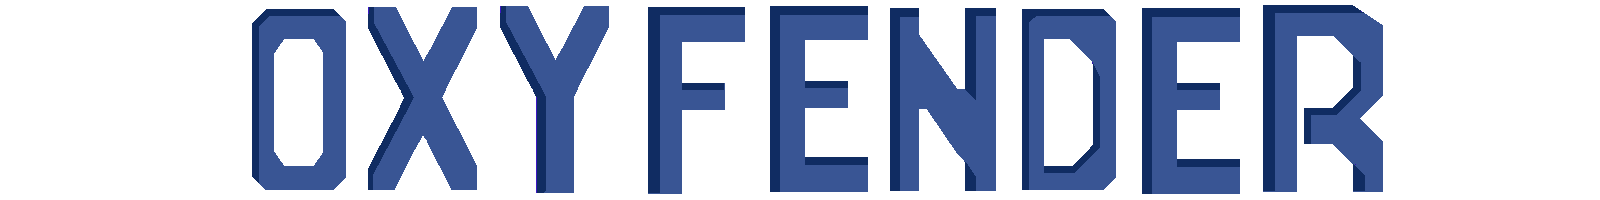
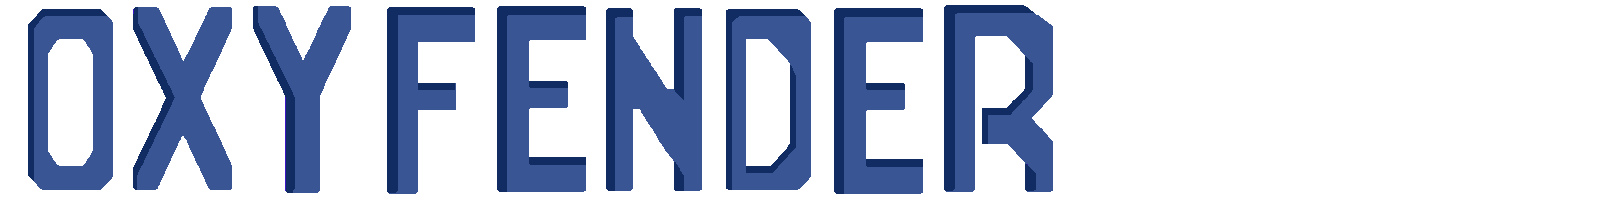
Mejorar menu

diff --git a/menu/menu_game.py b/menu/menu_game.py
@@ -1,0 +1,237 @@
+import pygame
+from utils.configuraciones import *
+import sys
+
+# Importamos las librerias de los niveles 
+from menu.play.beginner.level1.level1 import Level1Beginner
+from menu.play.beginner.level2.level2 import Level2Beginner
+from menu.play.beginner.level3.level3 import Level3Beginner
+
+from menu.play.advanced.level1.level1 import Level1Advanced
+from menu.play.advanced.level2.level2 import Level2Advanced
+from menu.play.advanced.level3.level3 import Level3Advanced
+from pygame.math import Vector2 as vector
+from os.path import join
+
+class MenuPlay:
+    def __init__(self, screen, config):
+        pygame.display.set_caption(f"Seleccionar Nivel - {TITLE_GAME}") # Establecer titulo del nivel
+
+        # Guardar atributos generales
+        self.screen = screen 
+        self.config = config
+        self.font = pygame.font.Font(join("assets", "fonts", "Font_Menu_Options.ttf"), 18) # Fuente de texto
+
+    def mostrarMenuDificultad(self):
+        self.fondoMenuDificultad = pygame.image.load(join("assets", "img", "Background", "menu", "Background_5.jpeg")).convert_alpha() # Fondo para menu de selección de dificultad
+        self.fondoMenuDificultad = pygame.transform.scale(self.fondoMenuDificultad, (WIDTH, HEIGHT))
+        
+        self.screen.blit(self.fondoMenuDificultad, [0, 0])
+
+        # Agregar el título de mostrar dificultad
+        fontTitulo = pygame.font.Font(join("assets", "fonts", "ka1.ttf"), 100)
+        titulo = fontTitulo.render("Seleccionar Dificultad", True, BLACK)
+        titulo_rect = titulo.get_rect(center=(self.screen.get_width() // 2, 50))
+        self.screen.blit(titulo, titulo_rect)
+        opcionesDificultad = [
+                {
+                "name" : "Beginner",
+                "id": "beginner"
+                },
+                {
+                "name" : "Advanced",
+                "id": "advanced"
+                }
+            ] 
+        
+        self.dictMostrarOpcionesDificultad = []  
+
+        # Dibujamos las opciones de dificultad
+        for i, opcionDificultad in enumerate(opcionesDificultad):
+            textoMostrarDificultad = self.font.render(opcionDificultad['name'], True, WHITE)
+            background_rect = pygame.Surface((BUTTON_MENU_WIDTH, BUTTON_MENU_HEIGHT))
+            background_rect.fill(DARK_BLUE)
+            text_rect = textoMostrarDificultad.get_rect(topleft=(10, BUTTON_MENU_HEIGHT // 2 - textoMostrarDificultad.get_height() // 2))
+            background_rect.blit(textoMostrarDificultad, text_rect.topleft)
+            rectDificultad = background_rect.get_rect(topleft=(0, 150 + i * 70))
+            self.screen.blit(background_rect, rectDificultad)
+            self.dictMostrarOpcionesDificultad.append((opcionDificultad, rectDificultad))
+        
+        # Crear botón de regreso
+        back_button = self.font.render("Back", True, WHITE)
+        back_button_rect = back_button.get_rect(topleft=(10, HEIGHT - 50))
+        self.screen.blit(back_button, back_button_rect)
+        
+        # Agregar nombre de la empresa
+        fontTextoInferiorDerecha = pygame.font.Font(join("assets", "fonts", "Font_Name_Enterprise.ttf"), 24) # Fuente
+        textoInferiorDerecha = fontTextoInferiorDerecha.render(NAME_ENTERPRISE, True, WHITE) # Texto
+        texto_rect = textoInferiorDerecha.get_rect(bottomright=(self.screen.get_width() - 10, self.screen.get_height() - 10)) # Rectangulo para mostrar el texto en la pantalla
+        self.screen.blit(textoInferiorDerecha, texto_rect) # Mostrar texto en la pantalla
+
+        pygame.display.flip()
+
+        hoverOpcionSeleccionadaDificultad = None
+
+        while True:
+            for event in pygame.event.get():
+                if event.type == pygame.MenuPlay:
+                    pygame.quit()
+                    sys.exit()
+                # Cuando hace hover con el mouse
+                elif event.type == pygame.MOUSEMOTION:
+                    hoverOpcionSeleccionadaDificultad = None # Establecer el hover como vacío
+                    for i, (_, rect) in enumerate(self.dictMostrarOpcionesDificultad): # Recorrer las opciones de dificultad
+                        # Si el mouse está encima de alguna de las opciones de dificultad cambiar el hombre a la mano y establecer el hover a 1 para despues pintar a azul
+                        if rect.collidepoint(event.pos):
+                            hoverOpcionSeleccionadaDificultad = i
+                            pygame.mouse.set_cursor(pygame.SYSTEM_CURSOR_HAND)
+                            break
+                    # Si el mouse no está encima de ninguna opción de dificultad cambiar el cursor a la flecha
+                    else:
+                        pygame.mouse.set_cursor(pygame.SYSTEM_CURSOR_ARROW)
+
+                # Cuando hace click con el mouse                        
+                elif event.type == pygame.MOUSEBUTTONDOWN:
+                    # Recorrer las opciones de dificultad para saber cual fue la seleccionada
+                    for opcionDificultad, rectDificultad in self.dictMostrarOpcionesDificultad:
+                        if rectDificultad.collidepoint(event.pos):
+                            self.mostrarMenuNiveles(opcionDificultad)
+                            continue
+                    # Si se hace clic en el botón de regreso
+                    if back_button_rect.collidepoint(event.pos):
+                        return
+
+            # Pintar las opciones de dificultad en la pantalla
+            self.screen.blit(self.fondoMenuDificultad, [0, 0])
+            self.screen.blit(titulo, titulo_rect)
+
+            for i, (opcionDificultad, rectDificultad) in enumerate(self.dictMostrarOpcionesDificultad):
+                if i == hoverOpcionSeleccionadaDificultad:
+                    textoMostrarDificultad = self.font.render(opcionDificultad['name'], True, WHITE)
+                    background_rect = pygame.Surface((BUTTON_MENU_WIDTH, BUTTON_MENU_HEIGHT))
+                    background_rect.fill(LIGHTBLUE)
+                else:
+                    textoMostrarDificultad = self.font.render(opcionDificultad['name'], True, WHITE)
+                    background_rect = pygame.Surface((BUTTON_MENU_WIDTH, BUTTON_MENU_HEIGHT))
+                    background_rect.fill(DARK_BLUE)
+                text_rect = textoMostrarDificultad.get_rect(topleft=(10, BUTTON_MENU_HEIGHT // 2 - textoMostrarDificultad.get_height() // 2))
+                background_rect.blit(textoMostrarDificultad, text_rect.topleft)
+                self.screen.blit(background_rect, rectDificultad)
+            
+            # Las ponemos hasta abajo para que esten encima de todos
+
+            # Pintar el botón de regreso
+            self.screen.blit(back_button, back_button_rect)
+            # Pinta el texto de la empresa
+            self.screen.blit(textoInferiorDerecha, texto_rect)
+
+            pygame.display.flip()
+
+    def mostrarMenuNiveles(self, dificultadNivel):
+        self.fondoMenuDificultad = pygame.image.load(join("assets", "img", "Background", "menu", "Background_5.jpeg")).convert_alpha()
+        self.fondoMenuDificultad = pygame.transform.scale(self.fondoMenuDificultad, (WIDTH, HEIGHT)) # Escalar imagen
+        self.option_rects = []
+        
+        self.screen.blit(self.fondoMenuDificultad, [0, 0])
+
+        # Agregar el título de mostrar nivel
+        fontTitulo = pygame.font.Font(join("assets", "fonts", "ka1.ttf"), 100)
+        titulo = fontTitulo.render("Seleccionar Nivel", True, BLACK)
+        titulo_rect = titulo.get_rect(center=(self.screen.get_width() // 2, 50))
+        self.screen.blit(titulo, titulo_rect)
+
+        # Agregar nombre de la empresa
+        fontTextoInferiorDerecha = pygame.font.Font(join("assets", "fonts", "Font_Name_Enterprise.ttf"), 24) # Fuente
+        textoInferiorDerecha = fontTextoInferiorDerecha.render(NAME_ENTERPRISE, True, WHITE) # Texto
+        texto_rect = textoInferiorDerecha.get_rect(bottomright=(self.screen.get_width() - 10, self.screen.get_height() - 10)) # Rectangulo para mostrar el texto en la pantalla
+        self.screen.blit(textoInferiorDerecha, texto_rect) # Mostrar texto en la pantalla
+
+        opcionNiveles = []
+
+        for i in range(1, 4):
+            opcionNiveles.append({
+                "name": f"Level {i}",
+                "dificultadNivel": dificultadNivel['name'],
+                "id": f"{dificultadNivel['id'].lower()}_level_{i}"
+            })
+
+        # Dibujamos las opciones de niveles
+        for i, level in enumerate(opcionNiveles):
+            textNivel = self.font.render(level['name'], True, WHITE)
+            background_rect = pygame.Surface((BUTTON_MENU_WIDTH, BUTTON_MENU_HEIGHT))
+            background_rect.fill(DARK_BLUE)
+            text_rect = textNivel.get_rect(topleft=(10, BUTTON_MENU_HEIGHT // 2 - textNivel.get_height() // 2))
+            background_rect.blit(textNivel, text_rect.topleft)
+            rectNivel = background_rect.get_rect(topleft=(0, 150 + i * 70))
+            self.screen.blit(background_rect, rectNivel)
+            self.option_rects.append((level, rectNivel))
+        
+        # Crear botón de regreso
+        back_button = self.font.render("Back", True, WHITE)
+        back_button_rect = back_button.get_rect(topleft=(10, HEIGHT - 50))
+        self.screen.blit(back_button, back_button_rect)
+        
+        
+        pygame.display.flip()
+
+        hoverOpcionSeleccionadaNiveles = None
+        while True:
+            for event in pygame.event.get():
+                if event.type == pygame.MenuPlay:
+                    pygame.quit()
+                    sys.exit()
+                elif event.type == pygame.MOUSEMOTION:
+                    hoverOpcionSeleccionadaNiveles = None
+                    for i, (_, rect) in enumerate(self.option_rects):
+                        if rect.collidepoint(event.pos):
+                            hoverOpcionSeleccionadaNiveles = i
+                            pygame.mouse.set_cursor(pygame.SYSTEM_CURSOR_HAND)
+                            break
+                    else:
+                        pygame.mouse.set_cursor(pygame.SYSTEM_CURSOR_ARROW)
+                elif event.type == pygame.MOUSEBUTTONDOWN:
+                    for level, rectNivel in self.option_rects:
+                        if rectNivel.collidepoint(event.pos):
+                            pygame.mouse.set_cursor(pygame.SYSTEM_CURSOR_ARROW)  # Cambiar el cursor al cursor normal
+                           # Niveles para principiantes 
+                            if level['id'] == "beginner_level_1":
+                                    self.current_stage = Level1Beginner(level['name'], level['dificultadNivel'], level['id']).run()
+                            if level['id'] == "beginner_level_2":
+                                    Level2Beginner(level['name'], level['dificultadNivel'], level['id'])
+                            if level['id'] == "beginner_level_3":
+                                    Level3Beginner(level['name'], level['dificultadNivel'], level['id'])
+                            
+                            # Niveles para avanzados 
+                            if level['id'] == "advanced_level_1":
+                                    Level1Advanced(level['name'], level['dificultadNivel'], level['id'])
+                            if level['id'] == "advanced_level_2":
+                                    Level2Advanced(level['name'], level['dificultadNivel'], level['id'])
+                            if level['id'] == "advanced_level_3":
+                                    Level3Advanced(level['name'], level['dificultadNivel'], level['id'])
+                    # Si se hace clic en el botón de regreso
+                    if back_button_rect.collidepoint(event.pos):
+                        return
+            
+            self.screen.blit(self.fondoMenuDificultad, [0, 0])
+            self.screen.blit(titulo, titulo_rect)
+            for i, (level, rectNivel) in enumerate(self.option_rects):
+                if i == hoverOpcionSeleccionadaNiveles:
+                    textNivel = self.font.render(level['name'], True, WHITE)
+                    background_rect = pygame.Surface((BUTTON_MENU_WIDTH, BUTTON_MENU_HEIGHT))
+                    background_rect.fill(LIGHTBLUE)
+                else:
+                    textNivel = self.font.render(level['name'], True, WHITE)
+                    background_rect = pygame.Surface((BUTTON_MENU_WIDTH, BUTTON_MENU_HEIGHT))
+                    background_rect.fill(DARK_BLUE)
+                text_rect = textNivel.get_rect(topleft=(10, BUTTON_MENU_HEIGHT // 2 - textNivel.get_height() // 2))
+                background_rect.blit(textNivel, text_rect.topleft)
+                self.screen.blit(background_rect, rectNivel)
+            
+            # Las ponemos hasta abajo para que esten encima de todo
+
+            # Pintar el botón de regreso
+            self.screen.blit(back_button, back_button_rect)
+            # Pinta el texto de la empresa
+            self.screen.blit(textoInferiorDerecha, texto_rect)
+
+            pygame.display.flip()

diff --git a/menu/play/menu_game.py b/menu/play/menu_game.py
@@ -31,8 +31,8 @@ class MenuPlay:
         self.screen.blit(self.fondoMenuDificultad, [0, 0])
 
         # Agregar el título de mostrar dificultad
-        fontTitulo = pygame.font.Font(join("assets", "fonts", "Font_Menu_Options.ttf"), 60)
-        titulo = fontTitulo.render("Select Difficulty", True, BLACK)
+        fontTitulo = pygame.font.Font(join("assets", "fonts", "Transformers Movie.ttf"), 100)
+        titulo = fontTitulo.render("Select Difficulty", True, AZUL_TITULO)
         titulo_rect = titulo.get_rect(center=(self.screen.get_width() // 2, 150))
         self.screen.blit(titulo, titulo_rect)
         
@@ -62,8 +62,9 @@ class MenuPlay:
             self.dictMostrarOpcionesDificultad.append((opcionDificultad, image_rect))
         
         # Crear botón de regreso
-        back_button = self.font.render("Back", True, WHITE)
-        back_button_rect = back_button.get_rect(topleft=(10, HEIGHT - 50))
+        back_button = pygame.image.load(join("assets","img","BOTONES","b_regreso.png")).convert_alpha()
+        back_button = pygame.transform.scale(back_button, (back_button.get_width() - 10, back_button.get_height() - 10))
+        back_button_rect = back_button.get_rect(topleft=(40, HEIGHT - 100))
         self.screen.blit(back_button, back_button_rect)
         
         # Agregar nombre de la empresa
@@ -141,9 +142,9 @@ class MenuPlay:
         self.screen.blit(self.fondoMenuDificultad, [0, 0])
 
         # Agregar el título de mostrar nivel
-        fontTitulo = pygame.font.Font(join("assets", "fonts", "Font_Menu_Options.ttf"), 60)
-        titulo = fontTitulo.render("Select Level", True, BLACK)
-        titulo_rect = titulo.get_rect(center=(self.screen.get_width() // 2, 100))
+        fontTitulo = pygame.font.Font(join("assets", "fonts", "Transformers Movie.ttf"), 100)
+        titulo = fontTitulo.render("Select Level", True, AZUL_TITULO)
+        titulo_rect = titulo.get_rect(center=(self.screen.get_width() // 2, 150))
         self.screen.blit(titulo, titulo_rect)
 
         # Agregar nombre de la empresa
@@ -175,8 +176,9 @@ class MenuPlay:
             self.option_rects.append((level, image_rect))
         
         # Crear botón de regreso
-        back_button = self.font.render("Back", True, WHITE)
-        back_button_rect = back_button.get_rect(topleft=(10, HEIGHT - 50))
+        back_button = pygame.image.load(join("assets","img","BOTONES","b_regreso.png")).convert_alpha()
+        back_button = pygame.transform.scale(back_button, (back_button.get_width() - 10, back_button.get_height() - 10))
+        back_button_rect = back_button.get_rect(topleft=(40, HEIGHT - 100))
         self.screen.blit(back_button, back_button_rect)
         
         pygame.display.flip()

diff --git a/menu/menu.py b/menu/menu.py
@@ -22,12 +22,12 @@ class Menu:
         # * Música de fondo 
         pygame.mixer.init() # Inicializar el módulo de sonido
         pygame.mixer.music.load(join("assets", "audio", "music", "let_us_adore_you.mp3")) # Cargar la música
-        pygame.mixer.music.play(-1) # Reproducir la música en bucle
+        #pygame.mixer.music.play(-1) # Reproducir la música en bucle
         pygame.mixer.music.set_volume(1)
         # volumen
 
     def mostrarOpcionesMenu(self, hoverOpcionSeleccionada=None): # Opciones del menú principal
-        self.fondoPrincipalVideojuego = pygame.image.load(join("assets", "img", "Background", "menu", "Background_3.jpeg")).convert_alpha() # Agregar fondoPrincipalVideojuego al menú
+        self.fondoPrincipalVideojuego = pygame.image.load(join("assets", "img", "Background", "menu", "Background_5.jpeg")).convert_alpha() # Agregar fondoPrincipalVideojuego al menú
         
         self.fondoPrincipalVideojuego = pygame.transform.scale(self.fondoPrincipalVideojuego, (WIDTH, HEIGHT)) # Escalar imagen del fondoPrincipalVideojuego del menú
 
@@ -36,8 +36,8 @@ class Menu:
 
         # Agregar el título del juego como imagen
         tituloPrincipalJuego = pygame.image.load(join("assets", "img", "TITULOS_FONDOS", "titulo_oxyfender.png")).convert_alpha()
-        tituloPrincipalJuego = pygame.transform.scale(tituloPrincipalJuego, (self.screen.get_width() // 2, 115)) # Escalar la imagen si es necesario
-        recTituloPrincipalJuego = tituloPrincipalJuego.get_rect(topleft=(-65, 5))
+        tituloPrincipalJuego = pygame.transform.scale(tituloPrincipalJuego, (self.screen.get_width(), 115)) # Escalar la imagen si es necesario
+        recTituloPrincipalJuego = tituloPrincipalJuego.get_rect(topleft=(-5, 5))
         self.screen.blit(tituloPrincipalJuego, recTituloPrincipalJuego)
 
         for i, opcionMenuPrincipal in enumerate(self.opcionesMenuPrincipal): # Recorremos todas las opciones del menu principal
@@ -113,7 +113,7 @@ class Menu:
                                 self.bucleInicial = True  # Reiniciar el bucle del menú después de mostrar los créditos
                                 # Reproducir la música de fondo nuevamente
                                 pygame.mixer.music.load(join("assets", "audio", "music", "let_us_adore_you.mp3"))
-                                pygame.mixer.music.play(-1)
+                                #pygame.mixer.music.play(-1)
                                 pygame.mixer.music.set_volume(0.2)
 
                             elif option == "configuration" or option == "configuración":

diff --git a/menu/play/beginner/level1/level1.py b/menu/play/beginner/level1/level1.py
@@ -107,7 +107,7 @@ class Level1Beginner:  # Creamos el nivel 1
 
          # Cargar y reproducir la nueva canción
         pygame.mixer.music.load(join("assets", "audio", "niveles", "musica_nivel_1.mp3"))
-        pygame.mixer.music.play(-1)  # Reproducir en bucle
+        #pygame.mixer.music.play(-1)  # Reproducir en bucle
 
         clock = pygame.time.Clock() # Inicializamos el reloj para controlar los FPS
 
@@ -371,7 +371,7 @@ class Level1Beginner:  # Creamos el nivel 1
                         # * Música de fondo 
                         pygame.mixer.music.pause() # Pausar la música actual
                         pygame.mixer.music.load(join("assets", "audio", "music", "let_us_adore_you.mp3")) # Cargar la música del menú
-                        pygame.mixer.music.play(-1) # Reproducir la música en bucle
+                        #pygame.mixer.music.play(-1) # Reproducir la música en bucle
                         pygame.mixer.music.set_volume(0.2)
 
             if self.capturarPantalla:

diff --git a/menu/credits/credits.py b/menu/credits/credits.py
@@ -18,7 +18,7 @@ class Creditos:
         cap = cv2.VideoCapture(rutaVideo)
 
         if not cap.isOpened():
-            print("Error: Could not open video.")
+            print("No se pudo abrir el video.")
             return
 
         # Detener la música de fondo
@@ -30,7 +30,7 @@ class Creditos:
         # Reproducir el audio del video
         rutaAudio = join("assets", "audio", "music", "Creditos.mpeg")
         pygame.mixer.music.load(rutaAudio)
-        pygame.mixer.music.play()
+        #pygame.mixer.music.play()
 
         clock = pygame.time.Clock()
         activo = True

diff --git a/utils/configuraciones.py b/utils/configuraciones.py
@@ -50,6 +50,7 @@ LIGHTYELLOW = (255, 255, 0)
 LIGHTRED = (255, 0, 0)
 LIGHTORANGE = (255, 165, 0)
 LIGHTPURPLE = (255, 0, 255)
+AZUL_TITULO = (34,31, 74)
 
 
 CON_OXIGENO = ()
